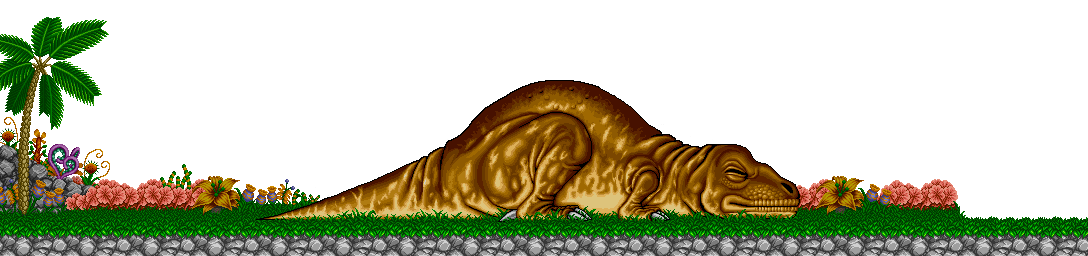
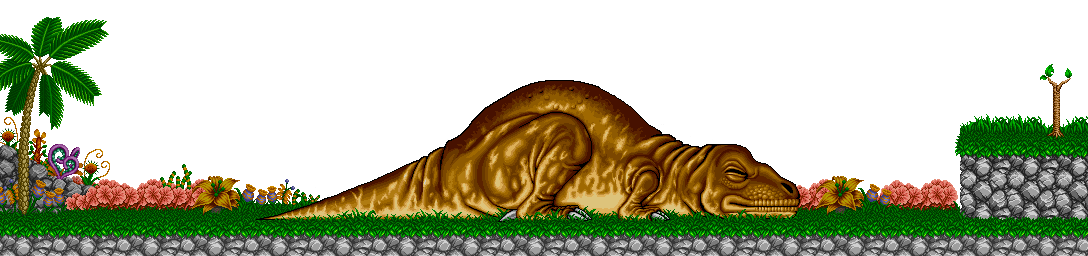
beta release

Changed region(s): [[0.875, 0.25, 1.0, 0.875]]

diff --git a/SDLGame/ModulePlayer.cpp b/SDLGame/ModulePlayer.cpp
@@ -21,7 +21,11 @@
 #include "Animation.h"
 #include "SpriteComponent.h"
 #include "ScoreComponent.h"
+#include "ConditionComparison.h"
 #include "GUIScore.h"
+#include "TimerCondition.h"
+#include "GUIAnimation.h"
+#include "ConditionCallback.h"
 
 ModulePlayer::ModulePlayer(bool start_enabled) : Module(start_enabled), lifes(1)
 {
@@ -53,7 +57,7 @@ bool ModulePlayer::start(){
 	started = started & ((life = static_cast<LifeComponent*>(player->getComponent("life"))) != nullptr);
 	started = started & ((weapon = static_cast<WeaponComponent*>(player->getComponent("weapon"))) != nullptr);
 	started = started & ((score = static_cast<ScoreComponent*>(player->getComponent("score"))) != nullptr);
-	player->transform->position = {20, 180};
+	player->transform->position = {20, 170};
 	player->controller.stateJump = TypeJump::FALL;
 
 	//restore his life
@@ -75,6 +79,7 @@ bool ModulePlayer::start(){
 	scoreText->transform.position = {50, 2};
 
 	App->scene->addGUI(scoreText);
+	portraitAnimation();
 
 	return started;
 }
@@ -150,6 +155,77 @@ void ModulePlayer::debugging() {
 	}
 }
 
+void ModulePlayer::portraitAnimation() {
+	ControlEntity* controller = &player->controller;
+	StateMachine<Animation>* animations;
+
+	Animation idle(1);
+	idle.sizeFrame = {0, 0, 24,28};
+	State<Animation>* idleAnimation = new State<Animation>(idle);
+	animations = new StateMachine<Animation>(idleAnimation);
+
+	// ---------------------------------------------
+
+	Animation damage(1);
+	damage.sizeFrame = {0, 28,24,28};
+	State<Animation>* damageAnimation = new State<Animation>(damage);
+	animations->addState(damageAnimation);
+
+	ConditionComparison<int> conditionDamage = ConditionComparison<int>(&controller->damage, 0, NON_EQUAL);
+	ConditionComparison<int> conditionIdle = ConditionComparison<int>(&controller->damage, 0);
+	StateTransition<Animation> transitionDamage = StateTransition<Animation>(damageAnimation, &conditionDamage);
+	StateTransition<Animation> transitionIdle = StateTransition<Animation>(idleAnimation, &conditionIdle);
+
+	damageAnimation->addTransition(&transitionIdle);
+	idleAnimation->addTransition(&transitionDamage);
+
+
+	// ---------------------------------------------
+
+	Animation eating(1);
+	eating.sizeFrame = {24, 0, 24,28};
+	State<Animation>* eatingAnimation = new State<Animation>(eating);
+	animations->addState(eatingAnimation);
+
+	TimerCondition conditionIdle2 = TimerCondition(1000);
+	ConditionCallback conditionEating = ConditionCallback([=](){
+		int actuaLife = life->getActualLife();
+		if (life->previousLife < actuaLife) {
+			life->previousLife = actuaLife;
+			return true;
+		} else {
+			return false;
+		}
+		});
+	StateTransition<Animation> transitionIdle2 = StateTransition<Animation>(idleAnimation, &conditionIdle2);
+	StateTransition<Animation> transitionEating = StateTransition<Animation>(eatingAnimation, &conditionEating);
+
+	idleAnimation->addTransition(&transitionEating);
+	eatingAnimation->addTransition(&transitionIdle2);
+	eatingAnimation->addTransition(&transitionDamage);
+
+	// ---------------------------------------------
+
+	Animation deadly(1);
+	deadly.sizeFrame = {24, 28, 24,28};
+	State<Animation>* deadlyAnimation = new State<Animation>(deadly);
+	animations->addState(deadlyAnimation);
+
+	ConditionComparison<int> conditionDead = ConditionComparison<int>(&controller->damage, 3);
+	ConditionComparison<int> conditionDead2 = ConditionComparison<int>(&controller->damage, -3);
+	StateTransition<Animation> transitionDead = StateTransition<Animation>(deadlyAnimation, &conditionDead);
+	StateTransition<Animation> transitionDead2 = StateTransition<Animation>(deadlyAnimation, &conditionDead2);
+
+	idleAnimation->addTransition(&transitionDead);
+	damageAnimation->addTransition(&transitionDead);
+	idleAnimation->addTransition(&transitionDead2);
+	damageAnimation->addTransition(&transitionDead2);
+
+	GUI::GUIAnimation* animationPortrait = new GUI::GUIAnimation("gui_portrait.png", animations);
+	animationPortrait->transform.position = {0,0};
+	App->scene->addGUI(animationPortrait);
+}
+
 
 // Update
 update_status ModulePlayer::update(){
@@ -205,6 +281,7 @@ update_status ModulePlayer::update(){
 		} else {
 			motion->velocity.x = 0.0f;
 		}
+		
 	}
 
 	dead();
@@ -217,7 +294,7 @@ update_status ModulePlayer::update(){
 		Scene* next = new EntryScene();
 		App->scene->changeScene(next, 1);
 		gameOverTimer.stop();
-		//App->audio->stop //stop music
+		App->audio->stopMusic(); //stop music
 	}
 	return UPDATE_CONTINUE;
 }

diff --git a/SDLGame/FirstLevel.cpp b/SDLGame/FirstLevel.cpp
@@ -6,6 +6,8 @@
 #include "ModuleInput.h"
 #include "ModuleRender.h"
 #include "ModuleAudio.h"
+#include "ModuleScene.h"
+#include "EntryScene.h"
 #include "Entity.h"
 #include "SceneNode.h"
 
@@ -73,6 +75,7 @@ bool FirstLevel::start() {
 	sprite->rect.h = 256;
 	sprite->speedCamera = 1;
 	buffer->addComponent(sprite);
+
 	root->addChild(buffer);
 
 
@@ -94,6 +97,7 @@ bool FirstLevel::start() {
 	collider = new RectangleCollider(fPoint(1080, 0), rectCollider, 0, TypeCollider::WALL);
 	colliderComponent = new CollisionComponent("rightLateral", collider);
 	buffer->addComponent(colliderComponent);
+
 
 	LineCollider* line = new LineCollider(fPoint(0, 0), std::vector<fPoint>{fPoint(300, 211),
 		fPoint(340, 200),
@@ -125,8 +129,24 @@ bool FirstLevel::start() {
 	colliderComponent = new CollisionComponent("lomo2", line);
 	buffer->addComponent(colliderComponent);
 
+	line = new LineCollider(fPoint(0,0), std::vector<fPoint>{fPoint(966, 140),
+		fPoint(1088, 140)}, TypeCollider::GROUND);
+	line->thickness = 1;
+	colliderComponent = new CollisionComponent("final", line);
+	buffer->addComponent(colliderComponent);
+
 
 	root->addChild(buffer); //added scenario
+
+	fPoint positionTrigger = {1070,0};
+	buffer = Trigger::makeTrigger(positionTrigger, {10,256},
+		[]() {
+		App->audio->stopMusic();
+		Scene* scene = new EntryScene();
+		App->scene->changeScene(scene, 1);
+	}
+	);
+	root->addChild(buffer);
 
 	// ---------------------------------------------
 
@@ -140,7 +160,7 @@ bool FirstLevel::start() {
 	root->start();
 	makeHUD();
 
-	//App->audio->playMusic("backgroundMusic.mp3");
+	App->audio->playMusic("backgroundMusic.mp3");
 
 	return true;
 }
@@ -228,17 +248,6 @@ void FirstLevel::makeEnemy(fPoint positionTrigger, const std::vector<fPoint>& en
 }
 
 void FirstLevel::makeHUD() {
-	StateMachine<Animation>* animations;
-
-	Animation idle(1);
-	idle.sizeFrame = {0, 0, 24,28};
-	State<Animation>* idleAnimation = new State<Animation>(idle);
-	animations = new StateMachine<Animation>(idleAnimation);
-
-	GUI::GUIAnimation* animationPortrait = new GUI::GUIAnimation("gui_portrait.png", animations);
-	animationPortrait->transform.position = {0,0};
-	rootGUI->pack(animationPortrait);
-
 	GUI::GUILifeBar* lifebar = new GUI::GUILifeBar("gui_lifebar.png", App->player->life);
 	lifebar->transform.position = {24,12};
 	lifebar->pointColor[GUI::PointColor::GREEN] = {0,0,5,12};

diff --git a/SDLGame/Application.cpp b/SDLGame/Application.cpp
@@ -67,15 +67,19 @@ bool Application::init() {
 update_status Application::update() {
 	update_status ret = UPDATE_CONTINUE;
 
-	//todo improve pause system
-	if (input->getWindowEvent(WE_PAUSE)) {
-		timer->pause();
+	if (paused) {
+		input->preUpdate();
+		input->update();
+
 		for (std::list<Module*>::iterator it = modules.begin(); it != modules.end() && ret == UPDATE_CONTINUE; ++it) {
 			if ((*it)->isEnabled() == true) {
 				ret = (*it)->postUpdate();
 			}
 		}
+		
+
 	} else {
+		timer->unpause();
 		for (std::list<Module*>::iterator it = modules.begin(); it != modules.end() && ret == UPDATE_CONTINUE; ++it) {
 			if ((*it)->isEnabled() == true) {
 				ret = (*it)->preUpdate();
@@ -107,4 +111,24 @@ bool Application::cleanUp() {
 	}
 
 	return ret;
+}
+
+bool Application::isPaused() const {
+	return paused;
+}
+
+void Application::pause() {
+	timer->pause();
+	SDL_Color c;
+	c.b = 0;
+	c.r = 0;
+	c.g = 0;
+	renderer->setFaddingEffect(0.5f*255.0f, c);
+	paused = true;
+}
+
+void Application::unpause() {
+	timer->unpause();
+	renderer->clearFaddingEffect();
+	paused = false;
 }

diff --git a/SDLGame/PlayerHittedComponent.cpp b/SDLGame/PlayerHittedComponent.cpp
@@ -10,7 +10,7 @@
 #include "CollisionComponent.h"
 #include "DamageComponent.h"
 
-PlayerHittedComponent::PlayerHittedComponent(const std::string& name) : IComponent(name), timer(), dead(false) {
+PlayerHittedComponent::PlayerHittedComponent(const std::string& name) : IComponent(name), timer(), dead(false), securityTimer() {
 
 }
 
@@ -56,17 +56,23 @@ update_status PlayerHittedComponent::update() {
 				motion->velocity.x = 0;
 				timer.start();
 			}
+			if (securityTimer.isStopped()) {
+				securityTimer.start();
+			} else if (securityTimer.value() > 2000) {
+				timer.start();
+			}
 		} else if (timer.value() >= 600 && life->isAlive()) {
 			hitted = false;
 			collision->enable();
 			parent->controller.damage = 0;
 			timer.stop();
+			securityTimer.stop();
 
 		} else if (timer.value() >= 50 && !life->isAlive()) {
 			dead = true;
 			int dam = (parent->controller.damage > 0) ? 1 : -1;
 			parent->controller.damage = dam * 3;
-
+			securityTimer.stop();
 			timer.stop();
 		}
 	}

diff --git a/SDLGame/ModuleRender.cpp b/SDLGame/ModuleRender.cpp
@@ -325,16 +325,17 @@ SDL_Rect ModuleRender::getCorrectCamera(float speed) const {
 	SDL_Rect cam = camera.getViewArea(speed);
 	iPoint rightLimit = camera.rightLimit*SCREEN_SIZE;
 	iPoint leftLimit = camera.leftLimit*SCREEN_SIZE;
+	SDL_Rect size=camera.getWindowsSize();
 	iPoint offset = {0,0};
-	if (cam.x > rightLimit.x) {
-		offset.x = cam.x - rightLimit.x;
+	if (cam.x+size.w > rightLimit.x) {
+		offset.x = -(cam.x+size.w - rightLimit.x);
 	} else if (cam.x < leftLimit.x) {
 		offset.x = leftLimit.x - cam.x;
 	}
 
-	if (cam.y > rightLimit.y) {
-		offset.y = cam.y - rightLimit.y;
-	} else if (cam.x < leftLimit.y) {
+	if (cam.y+size.h > rightLimit.y) {
+		offset.y = cam.y - rightLimit.y+size.h;
+	} else if (cam.y < leftLimit.y) {
 		offset.x = leftLimit.y - cam.x;
 	}
 

diff --git a/SDLGame/Joe.cpp b/SDLGame/Joe.cpp
@@ -53,7 +53,6 @@ Entity * Joe::makeJoe() {
 	DamageComponent* damage = new DamageComponent("damage",1,1);
 	result->addComponent(damage);
 
-
 	JumpComponent* jump = new JumpComponent("jump");
 	jump->speed = 300;
 	jump->doubleSpeed = 400;
@@ -69,7 +68,7 @@ Entity * Joe::makeJoe() {
 	LifeComponent* life = new LifeComponent("life",18);
 	result->addComponent(life);
 
-	WeaponComponent* weapon = new WeaponComponent("weapon", 3, 250);
+	WeaponComponent* weapon = new WeaponComponent("weapon", 2, 250);
 	result->addComponent(weapon);
 
 	PickupItemComponent* pickup = new PickupItemComponent("pickup");

diff --git a/SDLGame/EnemyBehaviour.cpp b/SDLGame/EnemyBehaviour.cpp
@@ -321,7 +321,7 @@ iPoint EnemyBehaviour::directionPlayer(Transform & globalMine, Transform & globa
 		result.x = 1;
 	}
 
-	int difference = globalPlayer.position.y - globalMine.position.y;
+	int difference = static_cast<int>(globalPlayer.position.y - globalMine.position.y);
 	if (difference > 20) {
 		result.y = 1;
 	} else if(difference < -20){

diff --git a/SDLGame/ModuleInput.cpp b/SDLGame/ModuleInput.cpp
@@ -61,6 +61,14 @@ update_status ModuleInput::preUpdate() {
 
 	if (getKey(SDL_SCANCODE_ESCAPE) == KEY_DOWN) {
 		return UPDATE_STOP;
+	} else if (getWindowEvent(WE_PAUSE)) {
+		App->pause();
+	} else if (getKey(SDL_SCANCODE_P) == KEY_DOWN) {
+		if (App->isPaused()) {
+			App->unpause();
+		} else {
+			App->pause();
+		}
 	}
 
 	SDL_Event events;

diff --git a/SDLGame/Application.h b/SDLGame/Application.h
@@ -29,6 +29,10 @@ public:
 	update_status update();
 	bool cleanUp();
 
+	bool isPaused() const;
+	void pause();
+	void unpause();
+
 public:
 	ModuleRender* renderer;
 	ModuleWindow* window;
@@ -46,7 +50,7 @@ public:
 
 private:
 	std::list<Module*> modules;
-
+	bool paused;
 };
 
 extern Application* App;

diff --git a/SDLGame/ModuleAudio.cpp b/SDLGame/ModuleAudio.cpp
@@ -95,6 +95,10 @@ bool const ModuleAudio::playMusic(const char * path, float fade_time) {
 	return result;
 }
 
+void ModuleAudio::stopMusic() {
+		Mix_HaltMusic();
+}
+
 unsigned int const ModuleAudio::loadEffect(const char * path) {
 	unsigned int result = 0;
 	std::string finalPath = "audio/effects/";
